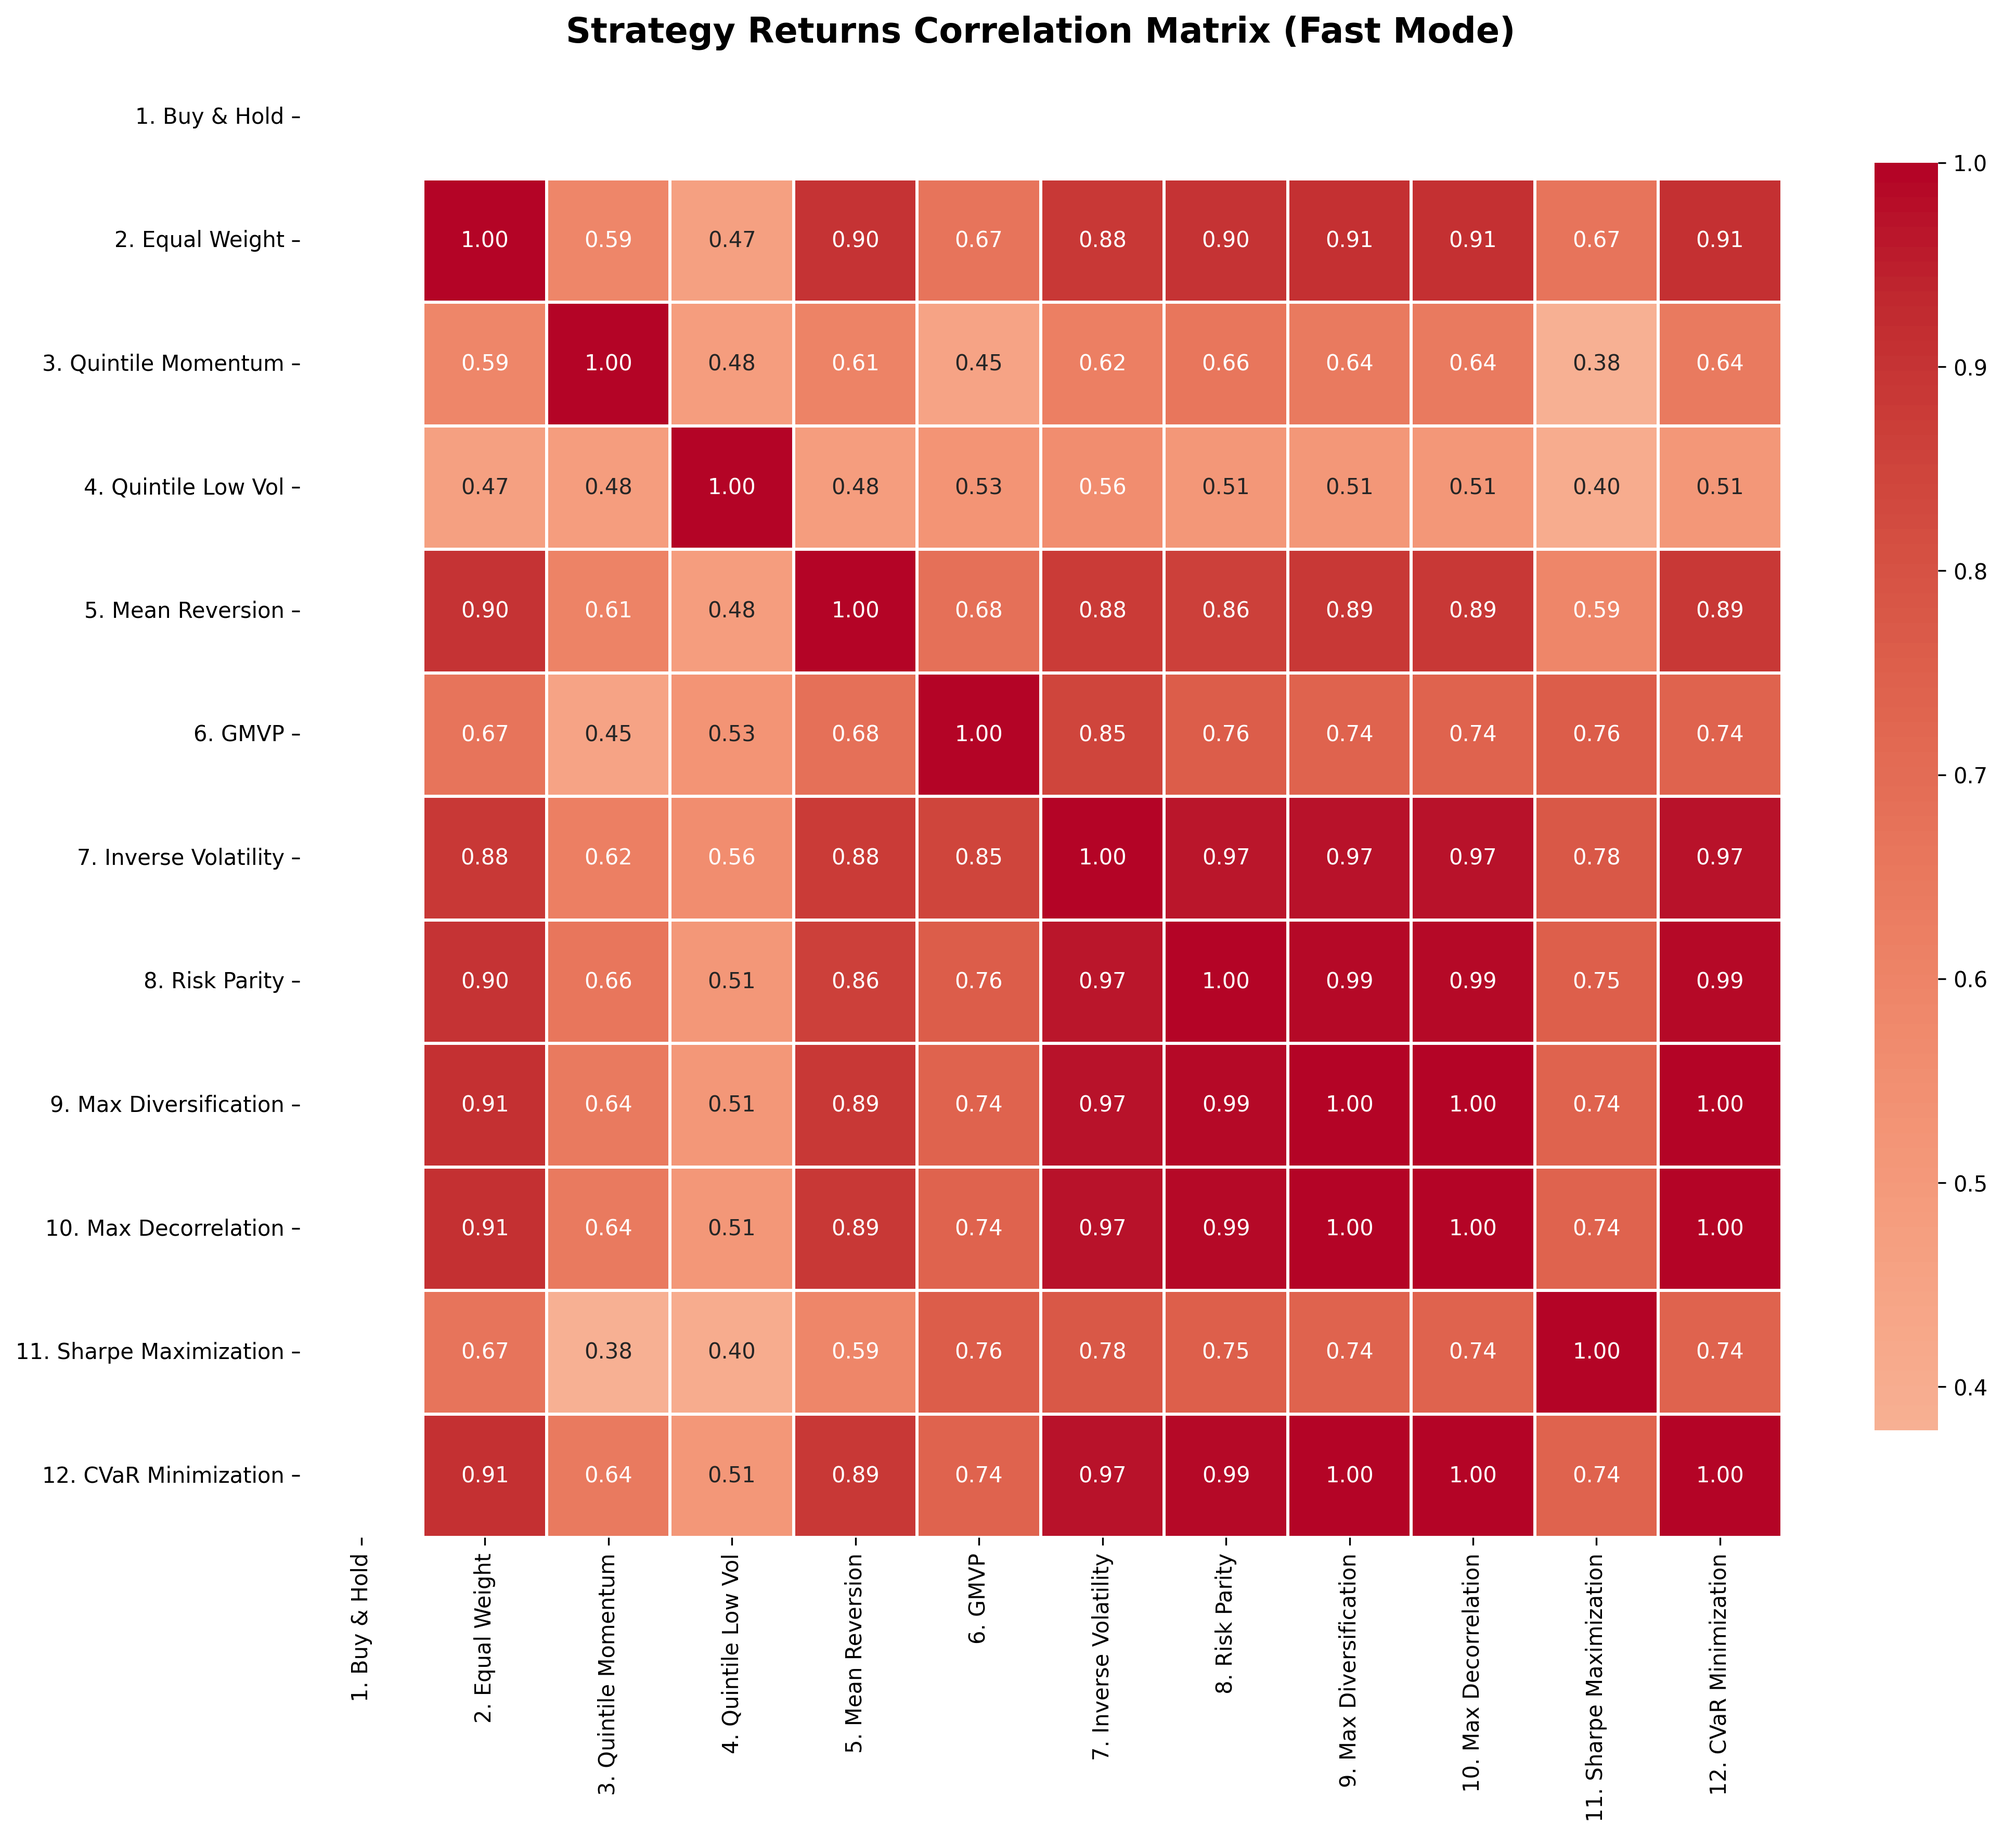
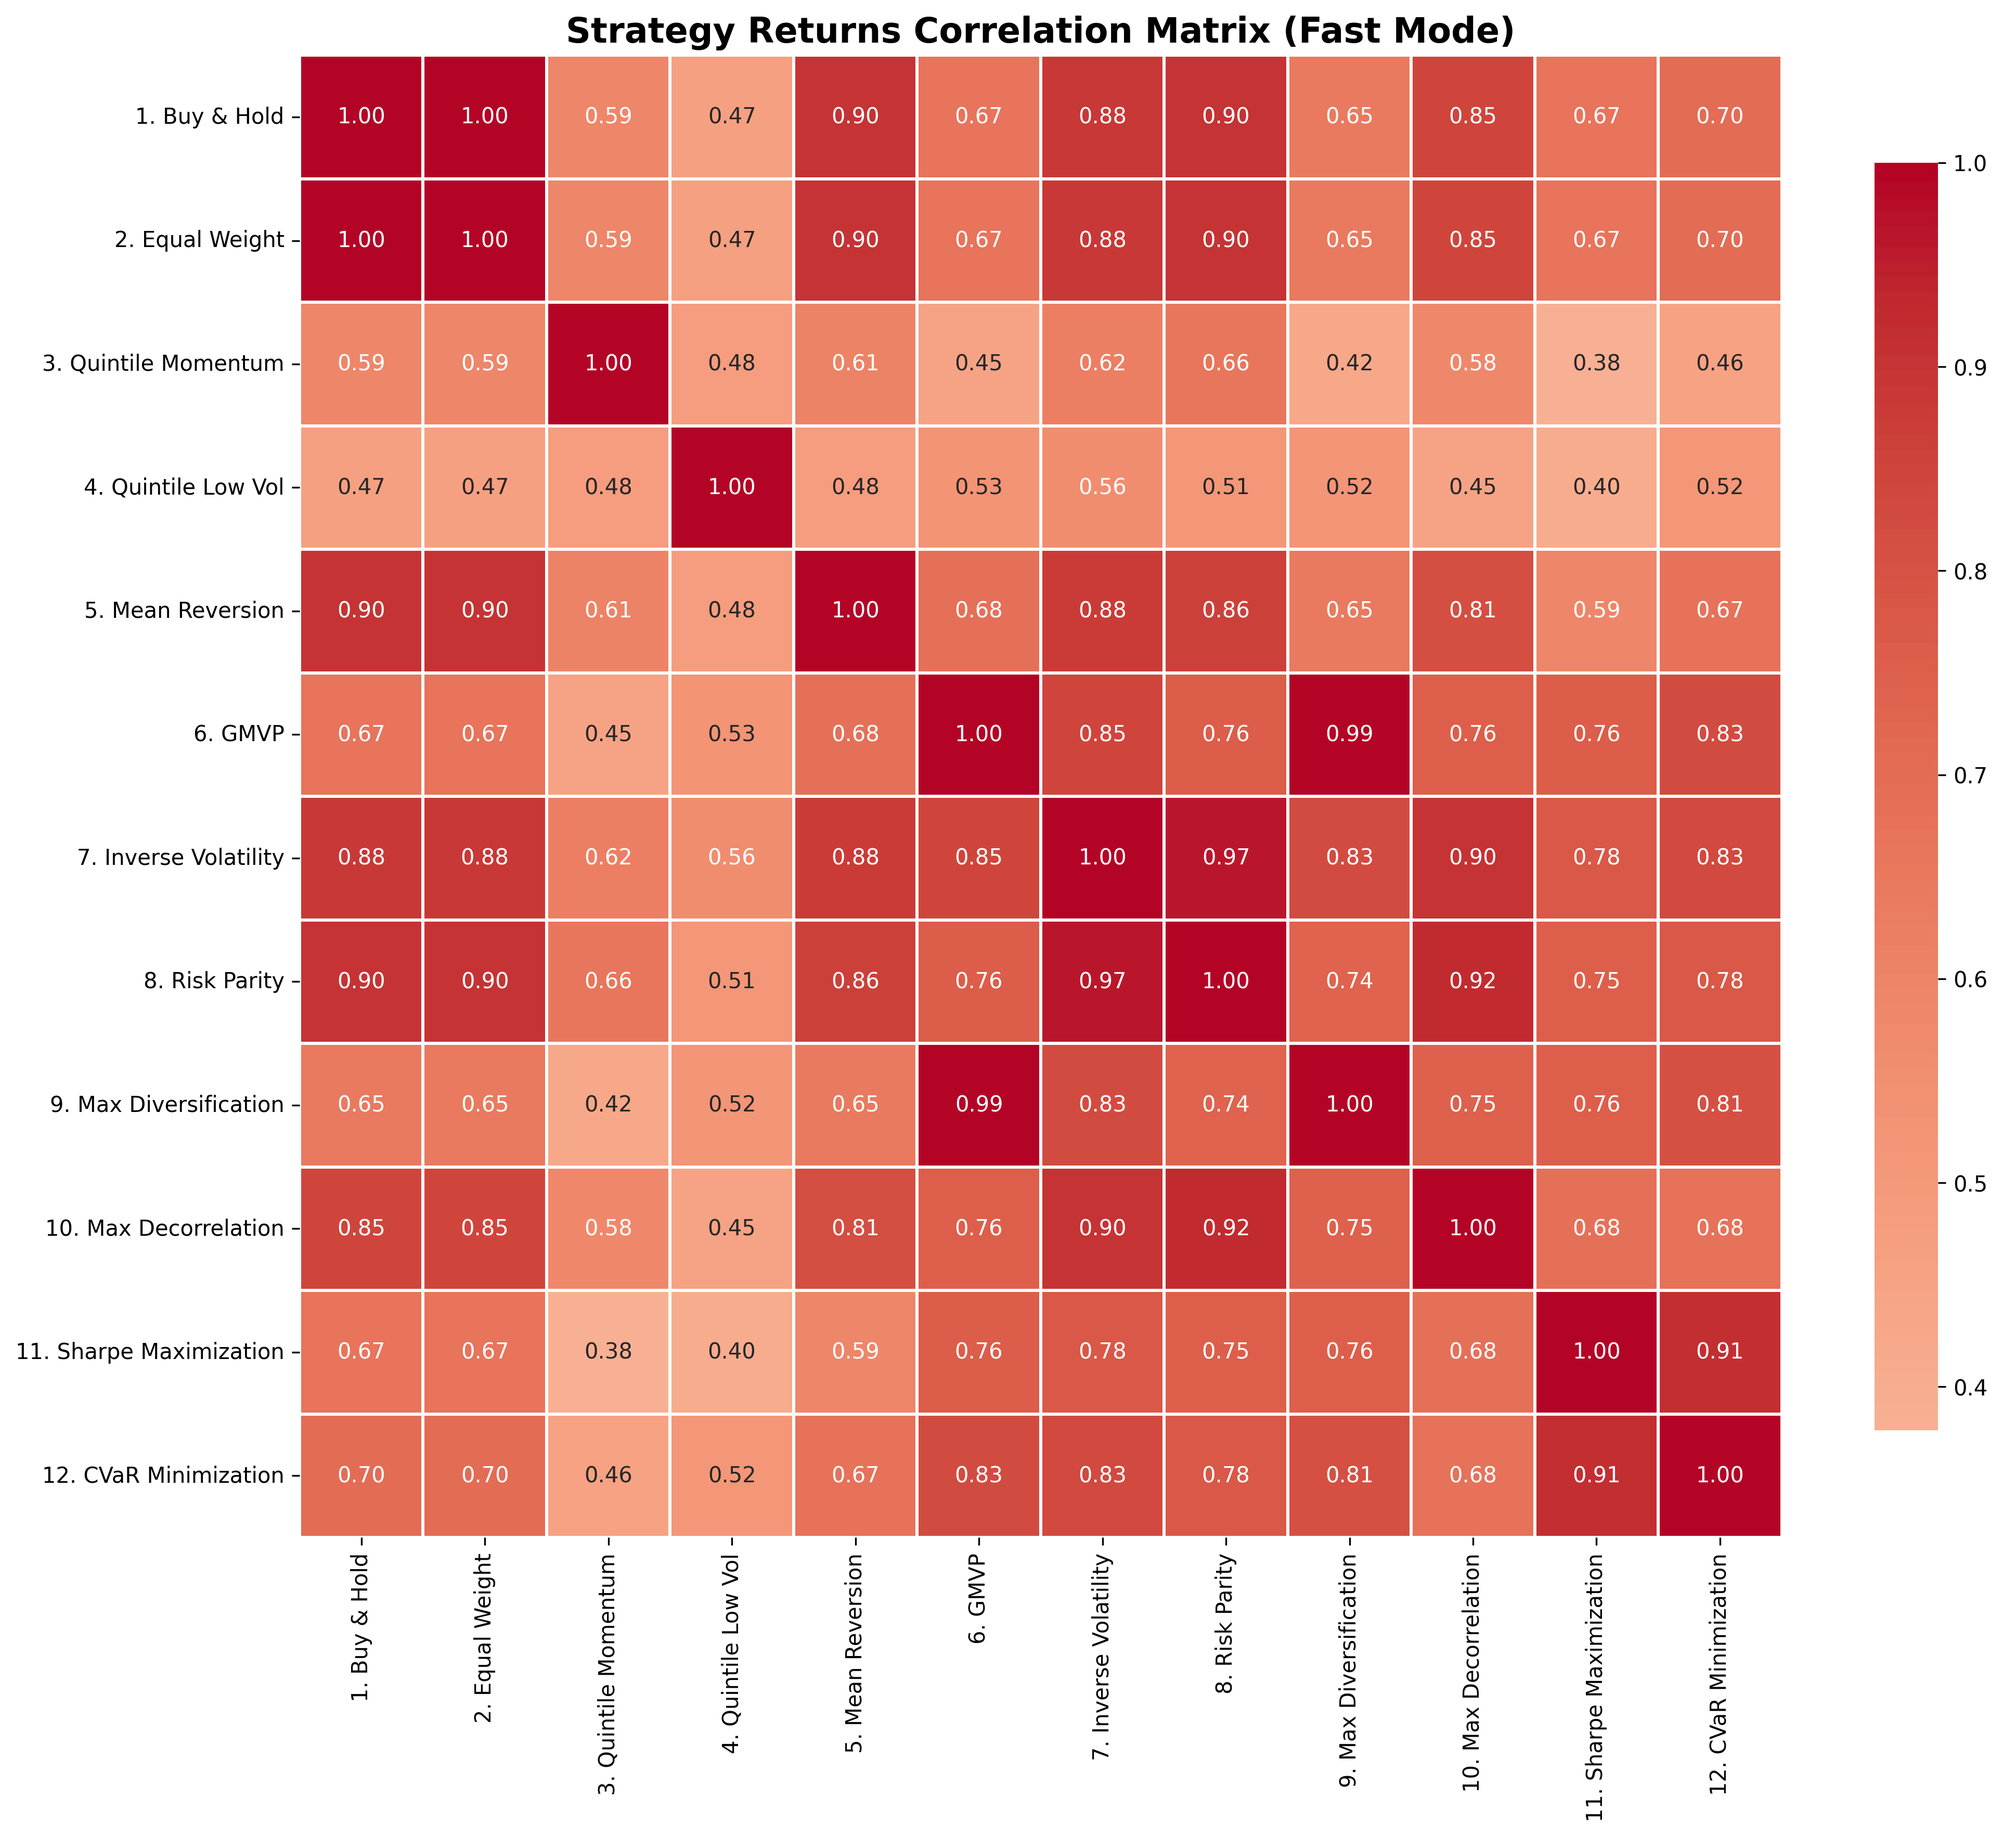
demoes test

diff --git a/src/strategies/benchmark_strategies.py b/src/strategies/benchmark_strategies.py
@@ -32,6 +32,7 @@ import numpy as np
 import pandas as pd
 from pandas import Series
 import scipy.optimize as sco
+import cvxpy as cp
 
 from .base_strategy_wrapper import BaseStrategyWrapper
 from ..portfolio_engine import PortfolioState
@@ -80,11 +81,14 @@ class BuyAndHoldStrategy(BaseStrategyWrapper):
         On first allocation, sets equal weights across all assets.
         Subsequently, returns existing weights to avoid rebalancing.
         """
-        # If we have current weights, use them (no rebalancing)
-        if portfolio_state.current_weights is not None and len(portfolio_state.current_weights) > 0:
-            return portfolio_state.current_weights.reindex(self.strategy.assets, fill_value=0.0)
+        # Get current weights for risky assets only (exclude CASH)
+        current_asset_weights = portfolio_state.current_weights.reindex(self.strategy.assets, fill_value=0.0)
         
-        # Initial allocation: equal weight
+        # If we have actual allocations in risky assets, use them (no rebalancing)
+        if current_asset_weights.sum() > 1e-6:
+            return current_asset_weights
+        
+        # Initial allocation: equal weight across all risky assets
         return Series(1.0 / len(self.strategy.assets), index=self.strategy.assets)
 
 
@@ -962,29 +966,46 @@ class MaximumDiversificationStrategy(BaseStrategyWrapper):
         cov_matrix = returns_window.cov().values * 252  # Annualized
         volatilities = np.sqrt(np.diag(cov_matrix))
         
-        # Use optimizer's maximum diversification method
+        # Maximum diversification: maximize portfolio diversification ratio
+        # DR = (w^T σ) / sqrt(w^T Σ w)
+        # This is equivalent to minimizing portfolio volatility / weighted average volatility
         try:
-            # Temporarily update optimizer constraints
-            original_max_weight = self.optimizer.max_weight
-            original_min_weight = self.optimizer.min_weight
+            import cvxpy as cp
             
-            self.optimizer.max_weight = max_weight
-            self.optimizer.min_weight = min_weight
+            n = len(volatilities)
+            w = cp.Variable(n)
             
-            weights = self.optimizer.maximum_diversification_optimization(
-                cov_matrix=cov_matrix,
-                volatilities=volatilities
-            )
+            # Objective: maximize (w^T σ) / sqrt(w^T Σ w)
+            # Equivalent: minimize portfolio volatility, weight by inverse volatility
+            portfolio_variance = cp.quad_form(w, cov_matrix)
+            weighted_volatility = w @ volatilities
             
-            # Restore original constraints
-            self.optimizer.max_weight = original_max_weight
-            self.optimizer.min_weight = original_min_weight
+            # Maximize diversification ratio = minimize volatility / weighted_vol
+            # Use inverse volatility as initial weights (good heuristic)
+            constraints = [
+                cp.sum(w) == 1,
+                w >= min_weight,
+                w <= max_weight
+            ]
             
-            return Series(weights, index=self.strategy.assets)
+            problem = cp.Problem(cp.Minimize(portfolio_variance), constraints)
+            problem.solve(solver=cp.OSQP, verbose=False)
+            
+            if w.value is not None and problem.status in [cp.OPTIMAL, cp.OPTIMAL_INACCURATE]:
+                weights = w.value
+                # Renormalize to sum to 1
+                weights = weights / weights.sum()
+                weights = np.clip(weights, 0, 1)
+                return Series(weights, index=self.strategy.assets)
+            else:
+                raise ValueError(f"Optimization failed with status: {problem.status}")
             
         except Exception as e:
-            logger.warning(f"Maximum diversification optimization failed: {e}, using equal weights")
-            return Series(1.0 / len(self.strategy.assets), index=self.strategy.assets)
+            logger.warning(f"Maximum diversification optimization failed: {e}, using inverse volatility")
+            # Fallback to inverse volatility weighting
+            inv_vol = 1.0 / (volatilities + 1e-8)
+            weights = inv_vol / inv_vol.sum()
+            return Series(weights, index=self.strategy.assets)
 
 
 # ============================================================================
@@ -1074,24 +1095,37 @@ class MaximumDecorrelationStrategy(BaseStrategyWrapper):
         # Compute correlation matrix
         corr_matrix = returns_window.corr().values
         
-        # Use optimizer's minimum correlation method
+        # Maximum decorrelation: minimize average pairwise correlation
+        # Minimize: w^T C w where C is the correlation matrix
         try:
-            # Temporarily update optimizer constraints
-            original_max_weight = self.optimizer.max_weight
-            original_min_weight = self.optimizer.min_weight
+            import cvxpy as cp
             
-            self.optimizer.max_weight = max_weight
-            self.optimizer.min_weight = min_weight
+            n = len(corr_matrix)
+            w = cp.Variable(n)
             
-            weights = self.optimizer.minimum_correlation_optimization(
-                corr_matrix=corr_matrix
-            )
+            # Objective: minimize weighted average correlation = w^T C w
+            avg_correlation = cp.quad_form(w, corr_matrix)
             
-            # Restore original constraints
-            self.optimizer.max_weight = original_max_weight
-            self.optimizer.min_weight = original_min_weight
+            constraints = [
+                cp.sum(w) == 1,
+                w >= min_weight,
+                w <= max_weight
+            ]
             
-            return Series(weights, index=self.strategy.assets)
+            problem = cp.Problem(cp.Minimize(avg_correlation), constraints)
+            problem.solve(solver=cp.OSQP, verbose=False)
+            
+            if w.value is not None and problem.status in [cp.OPTIMAL, cp.OPTIMAL_INACCURATE]:
+                weights = w.value
+                weights = np.clip(weights, 0, 1)
+                # Renormalize
+                if weights.sum() > 0:
+                    weights = weights / weights.sum()
+                else:
+                    weights = np.ones(n) / n
+                return Series(weights, index=self.strategy.assets)
+            else:
+                raise ValueError(f"Optimization failed with status: {problem.status}")
             
         except Exception as e:
             logger.warning(f"Maximum decorrelation optimization failed: {e}, using equal weights")
@@ -1320,7 +1354,7 @@ class CVaRMinimizationStrategy(BaseStrategyWrapper):
                 return portfolio_state.current_weights.reindex(self.strategy.assets, fill_value=0.0)
             return Series(1.0 / len(self.strategy.assets), index=self.strategy.assets)
         
-        # Use optimizer's CVaR minimization method
+        # Use optimizer's CVaR optimization method
         try:
             # Temporarily update optimizer constraints
             original_max_weight = self.optimizer.max_weight
@@ -1329,8 +1363,8 @@ class CVaRMinimizationStrategy(BaseStrategyWrapper):
             self.optimizer.max_weight = max_weight
             self.optimizer.min_weight = min_weight
             
-            weights = self.optimizer.cvar_minimization(
-                returns=returns_window.values,
+            weights = self.optimizer.cvar_optimization(
+                returns_data=returns_window,
                 alpha=alpha
             )
             
